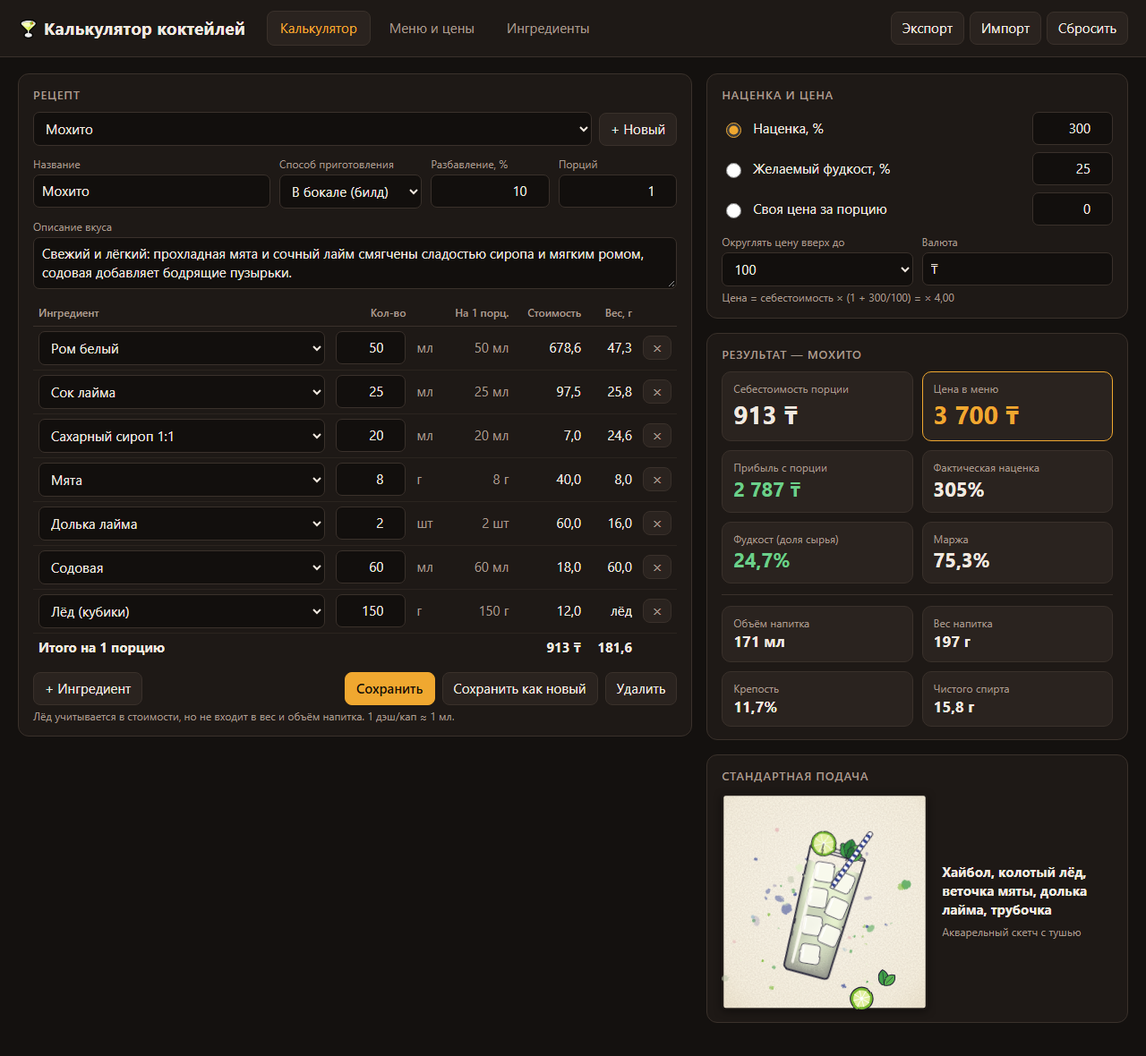
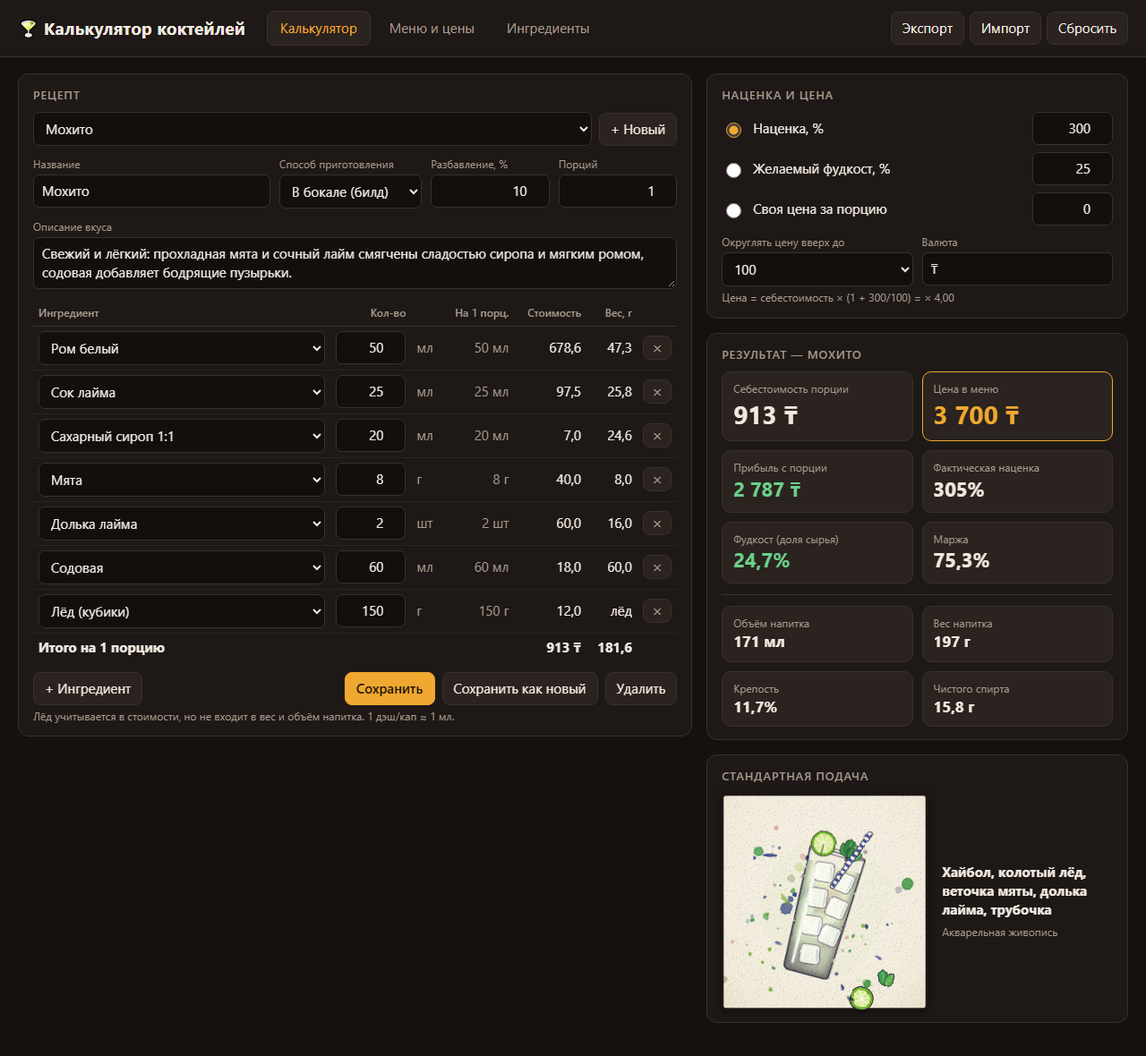
Repaint serving illustrations as watercolor paintings
Layered translucent washes with multiply blending, darkened wash edges,
wet-in-wet glazes and backruns, pigment pooling, paper tooth texture over
the whole painting, paint splashes with dark rims, thin broken ink lines.
Style follows the tilted ink-and-watercolor cocktail sketch reference.

diff --git a/cocktail_calculator.html b/cocktail_calculator.html
@@ -374,11 +374,13 @@ const GLASSES={
    handle:'M112 72 Q144 72 144 110 Q144 146 110 148'},
  shot:{d:'M60 108 L100 108 L96 168 Q96 172 92 172 L68 172 Q64 172 64 168 Z',fill:110,bot:172,cx:80,gx:100,gy:108}
 };
-/* ---------- рисовка «тушь + акварель» (скетч с брызгами краски) ---------- */
-const INK='#242136';
+/* ---------- рисовка «акварельная живопись + тонкая тушь» (скетч с брызгами краски) ---------- */
+const INK='#2d2540';
 const HL={highball:'M60 58L63 170',rocks:'M46 108L49 164',coupe:'M38 78Q40 104 62 116',martini:'M38 66L62 96',margarita:'M34 70Q38 92 60 101',
   hurricane:'M62 44Q54 70 66 96Q70 116 68 138',wine:'M44 58Q46 100 70 112',mug:'M54 62L52 166',shot:'M67 116L69 162'};
 const RIM={highball:32,rocks:46,coupe:50,martini:54,margarita:56,hurricane:24,wine:44,mug:34,shot:20};
+const ACC={limewedge:'#76b82e',lemonwedge:'#f0c030',orangewheel:'#ee7f14',mint:'#3f9f48',cherry:'#c2263a',olive:'#7d8f35',beans:'#6a4430',celery:'#6aa83a',straw:'#2c3e91',rimsalt:'#5f9fc8'};
+const MUL='style="mix-blend-mode:multiply"';
 const hx=h=>[1,3,5].map(i=>parseInt(h.slice(i,i+2),16));
 const hexOf=a=>'#'+a.map(v=>Math.max(0,Math.min(255,Math.round(v))).toString(16).padStart(2,'0')).join('');
 const mixC=(a,b,t)=>{const A=hx(a),B=hx(b);return hexOf(A.map((v,i)=>v+(B[i]-v)*t))};
@@ -387,11 +389,11 @@ const sat=(c,s)=>{const [r,g,b]=hx(c),y=.3*r+.59*g+.11*b;return hexOf([r,g,b].ma
 function rng(seed){let h=2166136261;for(const ch of seed){h^=ch.charCodeAt(0);h=Math.imul(h,16777619)}
   return()=>{h+=0x6D2B79F5;let t=h;t=Math.imul(t^t>>>15,t|1);t^=t+Math.imul(t^t>>>7,t|61);return((t^t>>>14)>>>0)/4294967296}}
 
-/* долька/колесо цитруса с контуром тушью */
+/* долька/колесо цитруса: акварельная заливка + тонкий контур */
 function wheel(x,y,r,out,inn,rot=0){
   let l='';for(let i=0;i<8;i++){const a=i*Math.PI/4+rot;l+=`M${x} ${y}L${(x+(r-2.6)*Math.cos(a)).toFixed(1)} ${(y+(r-2.6)*Math.sin(a)).toFixed(1)}`}
-  return `<circle cx="${x}" cy="${y}" r="${r}" fill="${out}"/><circle cx="${x}" cy="${y}" r="${r-2.8}" fill="${inn}"/><path d="${l}" stroke="#fff" stroke-opacity=".85" stroke-width=".9" fill="none"/><circle cx="${x}" cy="${y}" r="${r}" fill="none" stroke="${INK}" stroke-width="1"/><circle cx="${x}" cy="${y}" r="1.5" fill="#fff"/>`}
-const leaf=(a,len,c)=>`<g transform="rotate(${a})"><path d="M0 0C-${len*.4} -${len*.25} -${len*.42} -${len*.75} 0 -${len}C${len*.42} -${len*.75} ${len*.4} -${len*.25} 0 0Z" fill="${c}" stroke="${INK}" stroke-width=".9"/><path d="M0 -2L0 -${len*.85}" stroke="${INK}" stroke-opacity=".7" stroke-width=".7"/></g>`;
+  return `<circle cx="${x}" cy="${y}" r="${r}" fill="${out}"/><circle cx="${x}" cy="${y}" r="${r-2.8}" fill="${inn}" opacity=".95"/><path d="${l}" stroke="#fffdf4" stroke-opacity=".9" stroke-width=".9" fill="none"/><circle cx="${x}" cy="${y}" r="${r}" fill="none" stroke="${INK}" stroke-width=".8" stroke-opacity=".85"/><circle cx="${x}" cy="${y}" r="1.4" fill="#fffdf4"/>`}
+const leaf=(a,len,c)=>`<g transform="rotate(${a})"><path d="M0 0C-${len*.4} -${len*.25} -${len*.42} -${len*.75} 0 -${len}C${len*.42} -${len*.75} ${len*.4} -${len*.25} 0 0Z" fill="${c}" stroke="${INK}" stroke-width=".7" stroke-opacity=".85"/><path d="M0 -2L0 -${len*.85}" stroke="#fffdf4" stroke-opacity=".6" stroke-width=".6"/></g>`;
 
 /* предметы, разложенные на листе рядом с бокалом */
 function prop(k,x,y,rot){
@@ -401,29 +403,29 @@ function prop(k,x,y,rot){
     case 'lemonslice':return `<g ${t}>${wheel(x,y,11,'#efbd22','#fff0a0',rot/57)}</g>`;
     case 'orangeslice':return `<g ${t}>${wheel(x,y,11.5,'#ee7f14','#fbc060',rot/57)}</g>`;
     case 'mintleaf':return `<g transform="translate(${x} ${y}) rotate(${rot})">${leaf(-25,15,'#3f9f48')}${leaf(28,14,'#58b24f')}</g>`;
-    case 'cherry':return `<g ${t}><path d="M${x} ${y-4}Q${x+3} ${y-13} ${x+11} ${y-14}" stroke="${INK}" stroke-width="1.1" fill="none"/><circle cx="${x}" cy="${y}" r="6" fill="#b3202a" stroke="${INK}" stroke-width=".9"/><ellipse cx="${x-2}" cy="${y-2.3}" rx="1.8" ry="1.1" fill="#fff" opacity=".75"/></g>`;
-    case 'olive':return `<g ${t}><ellipse cx="${x}" cy="${y}" rx="7" ry="4.8" fill="#7d8f35" stroke="${INK}" stroke-width=".9"/><circle cx="${x+3}" cy="${y}" r="1.8" fill="#c62828"/></g>`;
-    case 'bean':return `<g ${t}><ellipse cx="${x}" cy="${y}" rx="5.5" ry="3.7" fill="#4a2c20" stroke="${INK}" stroke-width=".8"/><path d="M${x-4} ${y}Q${x} ${y-1.8} ${x+4} ${y}" stroke="#d7b08a" stroke-width=".8" fill="none"/></g>`;
-    case 'cranberry':return `<g ${t}>${[[0,0],[8,3],[3,8]].map(([a,b])=>`<circle cx="${x+a}" cy="${y+b}" r="4.4" fill="#b3153a" stroke="${INK}" stroke-width=".8"/><circle cx="${x+a-1.4}" cy="${y+b-1.6}" r="1.2" fill="#fff" opacity=".7"/>`).join('')}</g>`;
-    case 'berry':return `<g ${t}>${[[0,0],[9,2],[4,9]].map(([a,b])=>`<circle cx="${x+a}" cy="${y+b}" r="4.8" fill="#2f3d86" stroke="${INK}" stroke-width=".8"/><circle cx="${x+a-1.5}" cy="${y+b-1.7}" r="1.3" fill="#fff" opacity=".6"/><circle cx="${x+a+1}" cy="${y+b+1}" r=".9" fill="#12163a"/>`).join('')}</g>`;
+    case 'cherry':return `<g ${t}><path d="M${x} ${y-4}Q${x+3} ${y-13} ${x+11} ${y-14}" stroke="${INK}" stroke-width="1" fill="none"/><circle cx="${x}" cy="${y}" r="6" fill="#b3202a" stroke="${INK}" stroke-width=".7"/><ellipse cx="${x-2}" cy="${y-2.3}" rx="1.8" ry="1.1" fill="#fff" opacity=".8"/></g>`;
+    case 'olive':return `<g ${t}><ellipse cx="${x}" cy="${y}" rx="7" ry="4.8" fill="#7d8f35" stroke="${INK}" stroke-width=".7"/><circle cx="${x+3}" cy="${y}" r="1.8" fill="#c62828"/></g>`;
+    case 'bean':return `<g ${t}><ellipse cx="${x}" cy="${y}" rx="5.5" ry="3.7" fill="#4a2c20" stroke="${INK}" stroke-width=".6"/><path d="M${x-4} ${y}Q${x} ${y-1.8} ${x+4} ${y}" stroke="#d7b08a" stroke-width=".8" fill="none"/></g>`;
+    case 'cranberry':return `<g ${t}>${[[0,0],[8,3],[3,8]].map(([a,b])=>`<circle cx="${x+a}" cy="${y+b}" r="4.4" fill="#b3153a" stroke="${INK}" stroke-width=".6"/><circle cx="${x+a-1.4}" cy="${y+b-1.6}" r="1.2" fill="#fff" opacity=".75"/>`).join('')}</g>`;
+    case 'berry':return `<g ${t}>${[[0,0],[9,2],[4,9]].map(([a,b])=>`<circle cx="${x+a}" cy="${y+b}" r="4.8" fill="#2f3d86" stroke="${INK}" stroke-width=".6"/><circle cx="${x+a-1.5}" cy="${y+b-1.7}" r="1.3" fill="#fff" opacity=".65"/><circle cx="${x+a+1}" cy="${y+b+1}" r=".9" fill="#12163a"/>`).join('')}</g>`;
   }
   return '';
 }
 const PROP_OF={limewedge:'limeslice',lemonwedge:'lemonslice',orangewheel:'orangeslice',mint:'mintleaf',cherry:'cherry',olive:'olive',beans:'bean',celery:'mintleaf',rimsalt:'limeslice'};
 
 function garnish(k,G,U){
-  const {cx,gx,gy}=G, lx=2*cx-gx, W=`filter="url(#${U}w2)"`;
+  const {cx,gx,gy}=G, lx=2*cx-gx, W=`filter="url(#${U}ed)"`;
   switch(k){
-    case 'limewedge':return `<g ${W}>${wheel(lx+14,gy-6,14,'#76b82e','#e2efa0',.3)}<path d="M${lx+14} ${gy-6}L${lx+14} ${gy+6}" stroke="${INK}" stroke-width="1"/></g>`;
-    case 'lemonwedge':return `<g ${W}>${wheel(lx+14,gy-6,14,'#efbd22','#fff0a0',.3)}<path d="M${lx+14} ${gy-6}L${lx+14} ${gy+6}" stroke="${INK}" stroke-width="1"/></g>`;
-    case 'orangewheel':return `<g ${W}>${wheel(gx-8,gy-6,13.5,'#ee7f14','#fbc060',.2)}<path d="M${gx-8} ${gy-6}L${gx-8} ${gy+7}" stroke="${INK}" stroke-width="1"/></g>`;
-    case 'mint':return `<g transform="translate(${cx+12} ${gy+3}) rotate(14)" ${W}><path d="M0 4L0 -6" stroke="${INK}" stroke-width="1.2"/>${leaf(-48,18,'#3f9f48')}${leaf(50,17,'#58b24f')}${leaf(-14,22,'#2f8a3e')}${leaf(18,20,'#6cc15a')}${leaf(2,14,'#2a7a38')}</g>`;
-    case 'cherry':return `<g ${W}><path d="M${cx+4} ${gy+16}L${cx+21} ${gy-14}" stroke="${INK}" stroke-width="1.5" stroke-linecap="round"/><circle cx="${cx+22}" cy="${gy-9}" r="7" fill="#b3202a" stroke="${INK}" stroke-width="1"/><ellipse cx="${cx+19.8}" cy="${gy-11.5}" rx="2" ry="1.3" fill="#fff" opacity=".75" transform="rotate(-30 ${cx+19.8} ${gy-11.5})"/></g>`;
-    case 'olive':return `<g ${W}><path d="M${cx+20} ${gy-14}L${cx-8} ${gy+26}" stroke="${INK}" stroke-width="1.5" stroke-linecap="round"/><ellipse cx="${cx-3}" cy="${gy+19}" rx="7.5" ry="5.2" transform="rotate(-55 ${cx-3} ${gy+19})" fill="#7d8f35" stroke="${INK}" stroke-width="1"/><circle cx="${cx-5.5}" cy="${gy+21.5}" r="2" fill="#c62828"/></g>`;
+    case 'limewedge':return `<g ${W}>${wheel(lx+14,gy-6,14,'#76b82e','#e2efa0',.3)}<path d="M${lx+14} ${gy-6}L${lx+14} ${gy+6}" stroke="${INK}" stroke-width=".9"/></g>`;
+    case 'lemonwedge':return `<g ${W}>${wheel(lx+14,gy-6,14,'#efbd22','#fff0a0',.3)}<path d="M${lx+14} ${gy-6}L${lx+14} ${gy+6}" stroke="${INK}" stroke-width=".9"/></g>`;
+    case 'orangewheel':return `<g ${W}>${wheel(gx-8,gy-6,13.5,'#ee7f14','#fbc060',.2)}<path d="M${gx-8} ${gy-6}L${gx-8} ${gy+7}" stroke="${INK}" stroke-width=".9"/></g>`;
+    case 'mint':return `<g transform="translate(${cx+12} ${gy+3}) rotate(14)" ${W}><path d="M0 4L0 -6" stroke="${INK}" stroke-width="1"/>${leaf(-48,18,'#3f9f48')}${leaf(50,17,'#58b24f')}${leaf(-14,22,'#2f8a3e')}${leaf(18,20,'#6cc15a')}${leaf(2,14,'#2a7a38')}</g>`;
+    case 'cherry':return `<g ${W}><path d="M${cx+4} ${gy+16}L${cx+21} ${gy-14}" stroke="${INK}" stroke-width="1.3" stroke-linecap="round"/><circle cx="${cx+22}" cy="${gy-9}" r="7" fill="#b3202a" stroke="${INK}" stroke-width=".8"/><ellipse cx="${cx+19.8}" cy="${gy-11.5}" rx="2" ry="1.3" fill="#fff" opacity=".8" transform="rotate(-30 ${cx+19.8} ${gy-11.5})"/></g>`;
+    case 'olive':return `<g ${W}><path d="M${cx+20} ${gy-14}L${cx-8} ${gy+26}" stroke="${INK}" stroke-width="1.3" stroke-linecap="round"/><ellipse cx="${cx-3}" cy="${gy+19}" rx="7.5" ry="5.2" transform="rotate(-55 ${cx-3} ${gy+19})" fill="#7d8f35" stroke="${INK}" stroke-width=".8"/><circle cx="${cx-5.5}" cy="${gy+21.5}" r="2" fill="#c62828"/></g>`;
     case 'straw':{const a=`M${cx+4} ${G.fill+22}L${cx+30} ${gy-30}`;
-      return `<g ${W}><path d="${a}" stroke="${INK}" stroke-width="6.4" stroke-linecap="round"/><path d="${a}" stroke="#fff" stroke-width="4.4" stroke-linecap="round"/><path d="${a}" stroke="#2c3e91" stroke-width="4.4" stroke-dasharray="3.4 3.4"/></g>`}
-    case 'celery':return `<g ${W}><path d="M${cx-6} ${G.fill+30}L${cx-22} ${gy-26}" stroke="${INK}" stroke-width="9.6" stroke-linecap="round"/><path d="M${cx-6} ${G.fill+30}L${cx-22} ${gy-26}" stroke="#a8cf70" stroke-width="7.6" stroke-linecap="round"/><g transform="translate(${cx-23} ${gy-28})">${leaf(-30,12,'#4e9a3a')}${leaf(15,13,'#3e8a30')}${leaf(55,10,'#62aa48')}</g></g>`;
-    case 'beans':return [-11,0,11].map(d=>`<g ${W}><ellipse cx="${cx+d}" cy="${G.fill+3}" rx="4.8" ry="3.3" transform="rotate(${d>0?-20:d<0?20:0} ${cx+d} ${G.fill+3})" fill="#4a2c20" stroke="${INK}" stroke-width=".8"/><path d="M${cx+d-3} ${G.fill+3}Q${cx+d} ${G.fill+1.5} ${cx+d+3} ${G.fill+3}" stroke="#d7b08a" stroke-width=".7" fill="none"/></g>`).join('');
+      return `<g ${W}><path d="${a}" stroke="${INK}" stroke-width="5.8" stroke-linecap="round" stroke-opacity=".9"/><path d="${a}" stroke="#fffdf4" stroke-width="4.2" stroke-linecap="round"/><path d="${a}" stroke="#2c3e91" stroke-width="4.2" stroke-dasharray="3.4 3.4" opacity=".92"/></g>`}
+    case 'celery':return `<g ${W}><path d="M${cx-6} ${G.fill+30}L${cx-22} ${gy-26}" stroke="${INK}" stroke-width="9" stroke-linecap="round" stroke-opacity=".85"/><path d="M${cx-6} ${G.fill+30}L${cx-22} ${gy-26}" stroke="#a8cf70" stroke-width="7.4" stroke-linecap="round"/><g transform="translate(${cx-23} ${gy-28})">${leaf(-30,12,'#4e9a3a')}${leaf(15,13,'#3e8a30')}${leaf(55,10,'#62aa48')}</g></g>`;
+    case 'beans':return [-11,0,11].map(d=>`<g ${W}><ellipse cx="${cx+d}" cy="${G.fill+3}" rx="4.8" ry="3.3" transform="rotate(${d>0?-20:d<0?20:0} ${cx+d} ${G.fill+3})" fill="#4a2c20" stroke="${INK}" stroke-width=".7"/><path d="M${cx+d-3} ${G.fill+3}Q${cx+d} ${G.fill+1.5} ${cx+d+3} ${G.fill+3}" stroke="#d7b08a" stroke-width=".7" fill="none"/></g>`).join('');
     case 'rimsalt':return `<path d="M${lx} ${gy}L${gx} ${gy}" stroke="#c9d4dc" stroke-width="4.4" stroke-dasharray="2 2.4"/><path d="M${lx} ${gy-.6}L${gx} ${gy-.6}" stroke="#fff" stroke-width="2" stroke-dasharray="1.4 3.2"/>`;
   }
   return '';
@@ -438,72 +440,86 @@ function glassSVG(art,method){
   const R=rng(art.g+baseCol+(art.gr||[]).join()), cx=G.cx;
   const layers=(art.grad?[[art.grad[0],1]]:(art.l||[])).map(([c,w])=>[sat(c,1.2),w]);
   const base=G.stem?G.stem[1]+6:G.bot+3;
-  let s=`<svg viewBox="-20 -10 200 210" xmlns="http://www.w3.org/2000/svg" role="img" aria-label="Стандартная подача (акварельный скетч с тушью)"><defs>
+  const acc=(art.gr||[]).map(k=>ACC[k]).filter(Boolean);
+  const glaze=[mixC(main,'#5b3fa0',.45),mixC(main,'#e0508a',.4),mixC(main,'#3d6fd0',.35)];
+  const rimF=(id,freq,scale,blur)=>`<filter id="${U}${id}" x="-12%" y="-12%" width="124%" height="124%" color-interpolation-filters="sRGB"><feTurbulence type="fractalNoise" baseFrequency="${freq}" numOctaves="2" seed="21" result="n"/><feDisplacementMap in="SourceGraphic" in2="n" scale="${scale}" xChannelSelector="R" yChannelSelector="G" result="d0"/><feGaussianBlur in="d0" stdDeviation="${blur}" result="d"/><feMorphology in="d" operator="erode" radius="1.1" result="er"/><feComposite in="d" in2="er" operator="out" result="rim"/><feColorMatrix in="rim" type="matrix" values=".5 0 0 0 0 0 .45 0 0 0 0 0 .58 0 0 0 0 0 0 .85 0" result="rd"/><feMerge><feMergeNode in="d"/><feMergeNode in="rd"/></feMerge></filter>`;
+  let s=`<svg viewBox="-20 -10 200 210" xmlns="http://www.w3.org/2000/svg" role="img" aria-label="Стандартная подача (акварельная живопись)"><defs>
 <clipPath id="${U}cp"><path d="${G.d}"/></clipPath>
 <clipPath id="${U}lq"><rect x="0" y="${G.fill}" width="160" height="${G.bot-G.fill+2}"/></clipPath>
-<radialGradient id="${U}pg" cx=".5" cy=".45" r=".8"><stop offset="0" stop-color="#fbf7ec"/><stop offset=".75" stop-color="#f6f0e0"/><stop offset="1" stop-color="#ebe0c8"/></radialGradient>
+<radialGradient id="${U}pg" cx=".5" cy=".45" r=".8"><stop offset="0" stop-color="#fcf8ee"/><stop offset=".75" stop-color="#f7f1e1"/><stop offset="1" stop-color="#ece1ca"/></radialGradient>
 <linearGradient id="${U}cu" x1="0" y1="0" x2="1" y2="0"><stop offset="0" stop-color="#8a4a22"/><stop offset=".4" stop-color="#ec9d5f"/><stop offset=".75" stop-color="#c8742f"/><stop offset="1" stop-color="#7a3c18"/></linearGradient>
+<linearGradient id="${U}sd" x1="0" y1="0" x2="1" y2="0"><stop offset="0" stop-color="#fff" stop-opacity="0"/><stop offset=".45" stop-color="#fff" stop-opacity="0"/><stop offset="1" stop-color="${darken(main,.35)}" stop-opacity=".7"/></linearGradient>
 <filter id="${U}w2" x="-25%" y="-25%" width="150%" height="150%"><feTurbulence type="fractalNoise" baseFrequency=".06" numOctaves="2" seed="4" result="n"/><feDisplacementMap in="SourceGraphic" in2="n" scale="2.2" xChannelSelector="R" yChannelSelector="G"/></filter>
-<filter id="${U}sp" x="-10%" y="-10%" width="120%" height="120%"><feTurbulence type="fractalNoise" baseFrequency=".12" numOctaves="2" seed="13" result="n"/><feDisplacementMap in="SourceGraphic" in2="n" scale="3.4" xChannelSelector="R" yChannelSelector="G" result="d"/><feGaussianBlur in="d" stdDeviation=".35"/></filter>
-<filter id="${U}wc" x="-5%" y="-5%" width="110%" height="110%" color-interpolation-filters="sRGB"><feGaussianBlur stdDeviation=".7" result="b"/><feTurbulence type="fractalNoise" baseFrequency=".04" numOctaves="3" seed="7" result="n"/><feDisplacementMap in="b" in2="n" scale="5" xChannelSelector="R" yChannelSelector="G" result="d"/><feTurbulence type="fractalNoise" baseFrequency=".7" numOctaves="2" seed="11" result="g"/><feColorMatrix in="g" type="matrix" values="0 0 0 0 1 0 0 0 0 1 0 0 0 0 1 .55 0 0 0 .58" result="ga"/><feComposite in="d" in2="ga" operator="arithmetic" k1="1" k2="0" k3="0" k4="0"/></filter>
-<filter id="${U}pp" x="0" y="0" width="100%" height="100%"><feTurbulence type="fractalNoise" baseFrequency=".65" numOctaves="3" seed="5" result="t"/><feColorMatrix in="t" type="matrix" values="0 0 0 0 .42 0 0 0 0 .34 0 0 0 0 .26 0 0 0 .3 -.05" result="c"/><feComposite in="c" in2="SourceGraphic" operator="in"/></filter>
+${rimF('ed',.07,3,.25)}${rimF('sp',.1,4,.3)}${rimF('halo',.02,20,1.2)}
+<filter id="${U}wc" x="-5%" y="-5%" width="110%" height="110%" color-interpolation-filters="sRGB"><feGaussianBlur stdDeviation=".8" result="b"/><feTurbulence type="fractalNoise" baseFrequency=".04" numOctaves="3" seed="7" result="n"/><feDisplacementMap in="b" in2="n" scale="6" xChannelSelector="R" yChannelSelector="G" result="d"/><feTurbulence type="fractalNoise" baseFrequency=".7" numOctaves="2" seed="11" result="g"/><feColorMatrix in="g" type="matrix" values="0 0 0 0 1 0 0 0 0 1 0 0 0 0 1 .6 0 0 0 .55" result="ga"/><feComposite in="d" in2="ga" operator="arithmetic" k1="1" k2="0" k3="0" k4="0"/></filter>
+<filter id="${U}tex" x="0" y="0" width="100%" height="100%" color-interpolation-filters="sRGB"><feTurbulence type="fractalNoise" baseFrequency=".62" numOctaves="4" seed="3" result="t"/><feDiffuseLighting in="t" lighting-color="#ffffff" surfaceScale="1.0" diffuseConstant="1.12"><feDistantLight azimuth="225" elevation="68"/></feDiffuseLighting></filter>
+<filter id="${U}pp" x="0" y="0" width="100%" height="100%"><feTurbulence type="fractalNoise" baseFrequency=".65" numOctaves="3" seed="5" result="t"/><feColorMatrix in="t" type="matrix" values="0 0 0 0 .42 0 0 0 0 .34 0 0 0 0 .26 0 0 0 .22 -.04" result="c"/><feComposite in="c" in2="SourceGraphic" operator="in"/></filter>
 <filter id="${U}b1" x="-30%" y="-30%" width="160%" height="160%"><feGaussianBlur stdDeviation=".7"/></filter>
 <filter id="${U}b2" x="-30%" y="-30%" width="160%" height="160%"><feGaussianBlur stdDeviation="2"/></filter>
 <filter id="${U}b3" x="-60%" y="-120%" width="220%" height="340%"><feGaussianBlur stdDeviation="3"/></filter>`;
-  layers.forEach(([c],i)=>{const t=layers.length>1?.08:.14;
+  layers.forEach(([c],i)=>{const t=layers.length>1?.06:.1;
     s+=`<linearGradient id="${U}l${i}" x1="0" y1="0" x2="0" y2="1"><stop offset="0" stop-color="${lighten(c,t)}"/><stop offset=".5" stop-color="${c}"/><stop offset=".85" stop-color="${darken(c,.22)}"/><stop offset="1" stop-color="${darken(c,.42)}"/></linearGradient>`});
-  if(art.grad)s+=`<linearGradient id="${U}gr" x1="0" y1="0" x2="0" y2="1"><stop offset="0" stop-color="${lighten(sat(art.grad[0],1.2),.1)}"/><stop offset=".5" stop-color="${sat(art.grad[0],1.2)}"/><stop offset=".85" stop-color="${sat(art.grad[1],1.2)}"/><stop offset="1" stop-color="${darken(sat(art.grad[1],1.2),.4)}"/></linearGradient>`;
+  if(art.grad)s+=`<linearGradient id="${U}gr" x1="0" y1="0" x2="0" y2="1"><stop offset="0" stop-color="${lighten(sat(art.grad[0],1.2),.08)}"/><stop offset=".5" stop-color="${sat(art.grad[0],1.2)}"/><stop offset=".85" stop-color="${sat(art.grad[1],1.2)}"/><stop offset="1" stop-color="${darken(sat(art.grad[1],1.2),.4)}"/></linearGradient>`;
   s+='</defs>';
   /* лист бумаги */
-  s+=`<g><rect x="-18" y="-8" width="196" height="206" rx="2" fill="url(#${U}pg)"/><rect x="-18" y="-8" width="196" height="206" rx="2" fill="#000" ${f('pp')}/></g>`;
+  s+=`<rect x="-18" y="-8" width="196" height="206" rx="2" fill="url(#${U}pg)"/><rect x="-18" y="-8" width="196" height="206" rx="2" fill="#000" ${f('pp')}/>`;
+  /* лёгкое пятно краски вокруг рисунка */
+  s+=`<g ${MUL}><ellipse cx="80" cy="98" rx="62" ry="66" fill="${lighten(main,.5)}" opacity=".3" ${f('halo')}/></g>`;
   /* предметы на листе */
   const pr=[...(art.pr||[]),...(art.gr||[]).map(k=>PROP_OF[k]).filter(Boolean)].filter((k,i,a)=>a.indexOf(k)===i).slice(0,3);
-  [[138,176,18],[116,189,-30],[154,152,40]].slice(0,pr.length).forEach(([x,y,r],i)=>s+=`<g ${f('w2')}>${prop(pr[i],x,y,r)}</g>`);
+  [[138,176,18],[116,189,-30],[154,152,40]].slice(0,pr.length).forEach(([x,y,r],i)=>s+=`<g ${f('ed')}>${prop(pr[i],x,y,r)}</g>`);
   /* рисунок: наклон + центровка */
   const top0=G.gy-30,mid=(top0+base)/2,k=Math.max(.8,Math.min(1.3,150/(base-top0)));
   s+=`<g transform="translate(80 95) rotate(15) scale(${k.toFixed(3)}) translate(-80 ${(-mid).toFixed(1)})">`;
-  /* брызги краски */
-  const ACC={limewedge:'#76b82e',lemonwedge:'#f0c030',orangewheel:'#ee7f14',mint:'#3f9f48',cherry:'#c2263a',olive:'#7d8f35',beans:'#6a4430',celery:'#6aa83a',straw:'#2c3e91',rimsalt:'#5f9fc8'};
-  const acc=(art.gr||[]).map(k=>ACC[k]).filter(Boolean);
-  const pal=[main,lighten(main,.15),mixC(main,'#5b3fa0',.5),mixC(main,'#e0508a',.45),darken(main,.2),mixC(main,'#3d6fd0',.4),...acc,...acc,...acc];
-  const sy0=G.fill-34,sy1=G.bot+30;
-  for(let i=0;i<44;i++){const left=R()<.5,x=left?-8+R()*58:112+R()*60,y=sy0+R()*(sy1-sy0),big=R()<.16,r=big?2.6+R()*3.4:.6+R()*1.7;
-    s+=`<circle cx="${x.toFixed(1)}" cy="${y.toFixed(1)}" r="${r.toFixed(1)}" fill="${pal[Math.floor(R()*pal.length)]}" opacity="${(.45+R()*.4).toFixed(2)}" ${f('sp')}/>`}
-  for(let i=0;i<7;i++){const left=R()<.5,x=left?2+R()*44:114+R()*46,y=sy0+10+R()*(sy1-sy0-20);
-    s+=`<ellipse cx="${x.toFixed(1)}" cy="${y.toFixed(1)}" rx="${(3+R()*5).toFixed(1)}" ry="${(1.5+R()*2.5).toFixed(1)}" transform="rotate(${(R()*180).toFixed(0)} ${x.toFixed(1)} ${y.toFixed(1)})" fill="${pal[Math.floor(R()*pal.length)]}" opacity="${(.35+R()*.3).toFixed(2)}" ${f('sp')}/>`}
+  /* брызги краски: капли с тёмным краем, цвета напитка и гарнира */
+  const pal=[main,lighten(main,.15),glaze[0],glaze[1],darken(main,.2),glaze[2],...acc,...acc,...acc];
+  const sy0=G.fill-36,sy1=G.bot+32;
+  s+=`<g ${MUL} ${f('sp')}>`;
+  for(let i=0;i<56;i++){const left=R()<.5,x=left?-10+R()*60:110+R()*64,y=sy0+R()*(sy1-sy0),big=R()<.2,r=big?2.8+R()*4.2:.6+R()*1.8;
+    s+=`<circle cx="${x.toFixed(1)}" cy="${y.toFixed(1)}" r="${r.toFixed(1)}" fill="${pal[Math.floor(R()*pal.length)]}" opacity="${(.5+R()*.4).toFixed(2)}"/>`}
+  for(let i=0;i<9;i++){const left=R()<.5,x=left?0+R()*46:114+R()*48,y=sy0+10+R()*(sy1-sy0-20);
+    s+=`<ellipse cx="${x.toFixed(1)}" cy="${y.toFixed(1)}" rx="${(3+R()*6).toFixed(1)}" ry="${(1.4+R()*2.6).toFixed(1)}" transform="rotate(${(R()*180).toFixed(0)} ${x.toFixed(1)} ${y.toFixed(1)})" fill="${pal[Math.floor(R()*pal.length)]}" opacity="${(.4+R()*.35).toFixed(2)}"/>`}
+  s+='</g>';
   /* ножка */
   if(G.stem){const [a,b]=G.stem,d=`M80 ${a}L80 ${b}M52 ${b+5}Q80 ${b-7} 108 ${b+5}`;
-    s+=`<path d="${d}" fill="none" stroke="${INK}" stroke-width="1.4" stroke-linecap="round" ${f('w2')}/>`}
+    s+=`<path d="${d}" fill="none" stroke="${INK}" stroke-width="1.1" stroke-linecap="round" ${f('w2')}/>`}
+  const dash='pathLength="100" stroke-dasharray="26 .7 19 1.1 31 .6 15 .9"';
   if(G.opaque){
-    s+=`<path d="${G.handle}" fill="none" stroke="${INK}" stroke-width="10" stroke-linecap="round" ${f('w2')}/><path d="${G.handle}" fill="none" stroke="#c8742f" stroke-width="7.6" stroke-linecap="round" ${f('w2')}/><path d="${G.handle}" fill="none" stroke="#f0b883" stroke-width="2.4" stroke-linecap="round" opacity=".8" ${f('w2')}/>`;
+    s+=`<path d="${G.handle}" fill="none" stroke="${INK}" stroke-width="9.4" stroke-linecap="round" stroke-opacity=".85" ${f('w2')}/><path d="${G.handle}" fill="none" stroke="#c8742f" stroke-width="7.6" stroke-linecap="round" ${f('w2')}/><path d="${G.handle}" fill="none" stroke="#f0b883" stroke-width="2.4" stroke-linecap="round" opacity=".8" ${f('w2')}/>`;
     s+=`<g ${f('wc')}><path d="${G.d}" fill="url(#${U}cu)"/></g>`;
     for(let i=0;i<7;i++)s+=`<ellipse cx="${(52+R()*52).toFixed(0)}" cy="${(70+R()*95).toFixed(0)}" rx="${(3+R()*4).toFixed(1)}" ry="${(2+R()*3).toFixed(1)}" fill="#ffe0bc" opacity=".25" ${f('b1')}/>`;
     s+=`<ellipse cx="${cx}" cy="${G.fill}" rx="34" ry="4.6" fill="#4a2410" ${f('w2')}/>`;
-    [52,62,72,82,92,102].forEach((x,i)=>s+=`<circle cx="${x}" cy="${G.fill-(i%2?1:4)}" r="6" fill="#fffdf6" fill-opacity=".92" stroke="${INK}" stroke-width=".8" ${f('w2')}/>`);
-    s+=`<path d="${G.d}" fill="none" stroke="${INK}" stroke-width="1.6" ${f('w2')}/>`;
+    [52,62,72,82,92,102].forEach((x,i)=>s+=`<circle cx="${x}" cy="${G.fill-(i%2?1:4)}" r="6" fill="#fffdf6" fill-opacity=".92" stroke="${INK}" stroke-width=".7" ${f('w2')}/>`);
+    s+=`<path d="${G.d}" fill="none" stroke="${INK}" stroke-width="1.3" ${dash} ${f('w2')}/>`;
   }else{
     const top=G.fill,h=G.bot-top;
     s+=`<g clip-path="url(#${U}cp)"><g clip-path="url(#${U}lq)"><g ${f('wc')}>`;
     if(art.grad)s+=`<rect x="0" y="${top}" width="160" height="${h}" fill="url(#${U}gr)"/>`;
     else{let y=top;const tw=layers.reduce((a,l)=>a+l[1],0);layers.forEach(([c,w],i)=>{const hh=h*w/tw;s+=`<rect x="0" y="${(y-(i?2:0)).toFixed(1)}" width="160" height="${(hh+(i?2.5:.5)).toFixed(1)}" fill="url(#${U}l${i})"/>`;y+=hh})}
     s+='</g>';
-    s+=`<path d="${G.d}" fill="none" stroke="${darken(main,.45)}" stroke-width="9" opacity=".5" ${f('b2')}/>`;
-    for(let i=0;i<4;i++)s+=`<ellipse cx="${(cx-16+R()*32).toFixed(0)}" cy="${(top+h*(.25+R()*.65)).toFixed(0)}" rx="${(7+R()*10).toFixed(0)}" ry="${(10+R()*16).toFixed(0)}" fill="${R()<.4?lighten(main,.3):darken(main,.3)}" opacity=".42" ${f('b3')}/>`;
+    /* объём: тень справа, разноцветные лессировки, «цветы» (backruns), скопление пигмента у стенок */
+    s+=`<rect x="0" y="${top}" width="160" height="${h}" fill="url(#${U}sd)" ${MUL}/>`;
+    for(let i=0;i<4;i++)s+=`<ellipse cx="${(cx-18+R()*36).toFixed(0)}" cy="${(top+h*(.2+R()*.7)).toFixed(0)}" rx="${(8+R()*12).toFixed(0)}" ry="${(10+R()*18).toFixed(0)}" fill="${glaze[i%3]}" opacity=".42" ${f('b3')} ${MUL}/>`;
+    for(let i=0;i<3;i++)s+=`<g ${f('ed')} opacity=".6"><ellipse cx="${(cx-20+R()*40).toFixed(0)}" cy="${(top+h*(.25+R()*.6)).toFixed(0)}" rx="${(5+R()*8).toFixed(0)}" ry="${(4+R()*8).toFixed(0)}" fill="${lighten(main,.5)}"/></g>`;
+    s+=`<path d="${G.d}" fill="none" stroke="${darken(main,.5)}" stroke-width="9" opacity=".55" ${f('b2')} ${MUL}/>`;
     if(art.foam){s+=`<g ${f('w2')}><rect x="0" y="${top}" width="160" height="9" fill="${art.foam}"/><rect x="0" y="${top+7}" width="160" height="3" fill="${darken(art.foam,.2)}" opacity=".5"/>`;
       for(let i=0;i<7;i++)s+=`<circle cx="${(cx-22+R()*44).toFixed(0)}" cy="${(top+2+R()*5).toFixed(1)}" r="${(.8+R()*1.1).toFixed(1)}" fill="#fff" opacity=".75"/>`;
       s+='</g>'}
     s+='</g>';
-    /* лёд: бумага не закрашена, кубики обведены тушью */
-    if(art.ice&&G.ice)G.ice.forEach(([x,y,z],i)=>s+=`<g transform="rotate(${i%2?8:-6} ${x+z/2} ${y+z/2})" ${f('w2')}><rect x="${x}" y="${y}" width="${z}" height="${z}" rx="4" fill="#fffdf6" fill-opacity=".82" stroke="${INK}" stroke-opacity=".85" stroke-width=".9"/><rect x="${x+3}" y="${y+3}" width="${z-6}" height="${z-6}" rx="2.5" fill="${lighten(main,.55)}" opacity=".28"/><path d="M${x+3.5} ${y+4}L${x+3.5} ${y+z-6}" stroke="#fff" stroke-width="1.6" stroke-linecap="round"/></g>`);
+    /* лёд: бумага не закрашена, лёгкая голубая тень и тонкий контур */
+    if(art.ice&&G.ice)G.ice.forEach(([x,y,z],i)=>s+=`<g transform="rotate(${i%2?8:-6} ${x+z/2} ${y+z/2})" ${f('w2')}><rect x="${x}" y="${y}" width="${z}" height="${z}" rx="4" fill="#fffdf6" fill-opacity=".84" stroke="${INK}" stroke-opacity=".8" stroke-width=".8"/><rect x="${x+3}" y="${y+3}" width="${z-6}" height="${z-6}" rx="2.5" fill="${lighten(main,.55)}" opacity=".3"/><path d="M${x+z-3} ${y+4}L${x+z-3} ${y+z-4}" stroke="#9fb7cc" stroke-width="1.4" stroke-linecap="round" opacity=".6"/><path d="M${x+3.5} ${y+4}L${x+3.5} ${y+z-6}" stroke="#fff" stroke-width="1.6" stroke-linecap="round"/></g>`);
     s+='</g>';
-    /* контур тушью: двойная линия + эллипс края */
-    s+=`<path d="${G.d}" fill="none" stroke="${INK}" stroke-width="1.6" stroke-linejoin="round" ${f('w2')}/><path d="${G.d}" transform="translate(1 .8)" fill="none" stroke="${INK}" stroke-width=".7" opacity=".5" ${f('w2')}/>`;
+    /* тонкий прерывистый контур тушью + эллипс края */
+    s+=`<path d="${G.d}" fill="none" stroke="${INK}" stroke-width="1.3" stroke-linejoin="round" ${dash} ${f('w2')}/><path d="${G.d}" transform="translate(1 .8)" fill="none" stroke="${INK}" stroke-width=".6" opacity=".4" ${f('w2')}/>`;
     const rx=RIM[art.g]||30;
-    s+=`<ellipse cx="${cx}" cy="${G.gy}" rx="${rx}" ry="${(rx*.11).toFixed(1)}" fill="#fff" fill-opacity=".3" stroke="${INK}" stroke-width="1.1" ${f('w2')}/>`;
+    s+=`<ellipse cx="${cx}" cy="${G.gy}" rx="${rx}" ry="${(rx*.11).toFixed(1)}" fill="#fff" fill-opacity=".28" stroke="${INK}" stroke-width=".9" stroke-opacity=".9" ${f('w2')}/>`;
   }
   s+=`<path d="${HL[art.g]||HL.highball}" fill="none" stroke="#fffdf6" stroke-width="4" stroke-linecap="round" opacity="${G.opaque?.5:.85}" ${f('b1')}/>`;
   (art.gr||[]).forEach(k=>s+=garnish(k,G,U));
-  return s+'</g></svg>';
+  s+='</g>';
+  /* фактура бумаги поверх всего: краска «садится» в зерно */
+  s+=`<rect x="-18" y="-8" width="196" height="206" rx="2" fill="#fff" ${f('tex')} ${MUL} opacity=".4"/>`;
+  return s+'</svg>';
 }
 
 function defaults(){
@@ -608,7 +624,7 @@ function renderCalc(){
   renderRows();
 }
 function renderServing(){
-  $('#serving').innerHTML=`<h2>Стандартная подача</h2><div class="serve">${glassSVG(draft.art,draft.method)}<div><b>${esc(draft.serve||'Подача не описана')}</b><p class="hint">Акварельный скетч с тушью</p></div></div>`;
+  $('#serving').innerHTML=`<h2>Стандартная подача</h2><div class="serve">${glassSVG(draft.art,draft.method)}<div><b>${esc(draft.serve||'Подача не описана')}</b><p class="hint">Акварельная живопись</p></div></div>`;
 }
 function renderRows(){
   $('#rec tbody').innerHTML=draft.items.map((it,i)=>`<tr data-i="${i}">
